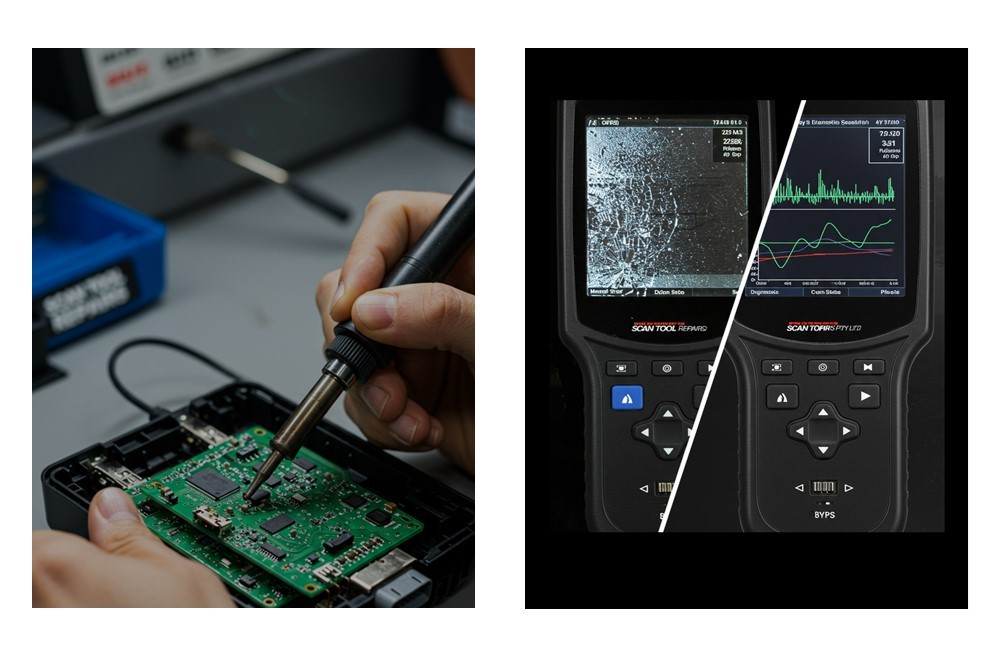
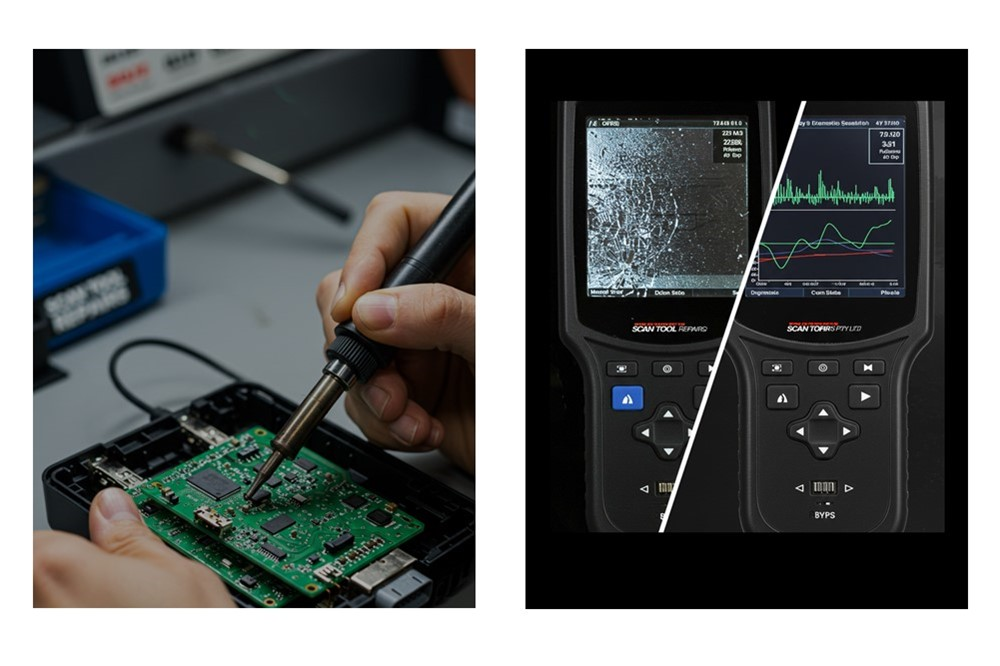
add img

diff --git a/index.html b/index.html
@@ -926,7 +926,7 @@ Founded with the goal of reducing repair costs for workshops and technicians, we
 		<div class="relative">&#13;
 							<div class="w-70px mb20 top-30px start-30px bg-color-3 rounded-10px absolute">					&#13;
 					<svg xmlns="http://www.w3.org/2000/svg" width="800px" height="800px" viewbox="0 0 1024 1024" fill="#0a2540" class="icon"><path d="M383.2 941.6c-4 0-6.4-0.8-9.6-2.4-14.4-9.6-82.4-60-25.6-160 15.2-27.2 19.2-48.8 13.6-66.4-6.4-20-27.2-28-27.2-28-9.6-4-14.4-15.2-10.4-24.8 3.2-8 9.6-12.8 17.6-12.8 2.4 0 4.8 0.8 7.2 1.6 3.2 0 36.8 14.4 50.4 50.4 10.4 28.8 4.8 62.4-16.8 100-40 70.4 2.4 101.6 11.2 107.2 8.8 4.8 12 16.8 7.2 26.4-4.8 6.4-12 8.8-17.6 8.8z m129.6-42.4c-4 0-6.4-0.8-9.6-2.4-28.8-16.8-69.6-68.8-24-150.4 13.6-24.8 17.6-44.8 12-60-5.6-17.6-24-24.8-24-24.8-10.4-4-15.2-14.4-11.2-24.8 3.2-8 9.6-12.8 17.6-12.8 2.4 0 4.8 0.8 7.2 1.6 8 3.2 36 16 47.2 48 9.6 27.2 4.8 58.4-15.2 92.8-38.4 68.8 8 96.8 10.4 97.6 4 2.4 7.2 6.4 8.8 11.2 1.6 4.8 0.8 10.4-1.6 15.2-4.8 6.4-12 8.8-17.6 8.8z m-265.6 0c-4 0-6.4-0.8-9.6-2.4-28.8-16.8-69.6-68.8-24-150.4 13.6-24.8 17.6-44.8 12-60-5.6-17.6-24-24.8-24-24.8-10.4-4-15.2-14.4-11.2-24.8 3.2-8 9.6-12.8 17.6-12.8 2.4 0 4.8 0.8 7.2 1.6 8 3.2 36 16.8 47.2 48 9.6 27.2 4 58.4-15.2 93.6-38.4 68.8 8 96.8 10.4 97.6 4 2.4 7.2 6.4 8.8 11.2 1.6 4.8 0.8 10.4-1.6 15.2-4 5.6-12 8-17.6 8z m487.2-71.2c-6.4 0-11.2-2.4-15.2-6.4s-6.4-9.6-6.4-15.2c0-8.8 5.6-16.8 13.6-20.8h0.8v-43.2l-40.8 23.2v0.8c0 6.4-2.4 14.4-10.4 18.4-3.2 2.4-7.2 3.2-11.2 3.2-8 0-15.2-4-18.4-10.4-3.2-5.6-4-11.2-2.4-16.8 1.6-5.6 4.8-10.4 10.4-12.8 3.2-2.4 7.2-3.2 10.4-3.2 4 0 8 0.8 11.2 3.2l36.8-20.8-36-20.8c-4.8 1.6-8.8 2.4-12 2.4-4 0-7.2-0.8-10.4-2.4-9.6-6.4-13.6-20-8-29.6 4-6.4 11.2-10.4 19.2-10.4 4 0 8 0.8 11.2 3.2 6.4 4 10.4 10.4 10.4 18.4v0.8L728 712v-43.2h-0.8c-8-4-13.6-12-13.6-20.8 0-12 9.6-21.6 21.6-21.6 6.4 0 12 2.4 16 6.4s6.4 9.6 6.4 15.2c0 7.2-4 14.4-11.2 18.4H744v41.6l35.2-20v-0.8c0-6.4 2.4-14.4 10.4-18.4 3.2-2.4 7.2-3.2 11.2-3.2 8 0 15.2 4 18.4 10.4 3.2 5.6 4 11.2 2.4 16.8-1.6 5.6-4.8 10.4-10.4 12.8-3.2 2.4-7.2 3.2-10.4 3.2-4 0-8-0.8-11.2-3.2l-36.8 20.8 36 20.8c4.8-1.6 8.8-2.4 12-2.4 4 0 7.2 0.8 10.4 2.4 9.6 6.4 13.6 20 8 29.6-4 6.4-11.2 10.4-19.2 10.4-4 0-8-0.8-11.2-3.2-6.4-4-10.4-10.4-10.4-18.4v-0.8L744 745.6v41.6h0.8c7.2 3.2 11.2 10.4 11.2 18.4 0 12.8-9.6 22.4-21.6 22.4zM152 575.2c-60.8 0-109.6-48.8-109.6-109.6V204.8c0-60.8 48.8-109.6 109.6-109.6h721.6c60.8 0 109.6 48.8 109.6 109.6v260.8c0 60.8-48.8 109.6-109.6 109.6H152z m-11.2-432c-28.8 0-52 24-52 54.4v278.4c0 29.6 23.2 54.4 52 54.4h743.2c28.8 0 52-24 52-54.4V197.6c0-29.6-23.2-54.4-52-54.4H140.8z m21.6 312c-10.4 0-19.2-8.8-19.2-19.2 0-10.4 8.8-19.2 19.2-19.2h682.4c10.4 0 19.2 8.8 19.2 19.2 0 10.4-8.8 19.2-19.2 19.2H162.4z m0-80.8c-10.4 0-19.2-8.8-19.2-19.2S152 336 162.4 336h682.4c10.4 0 19.2 8.8 19.2 19.2 0 10.4-8.8 19.2-19.2 19.2H162.4z" fill=""></path></svg>				</div>&#13;
-										<img decoding="async" src="./images/coolair-wp-content-uploads-2024-05-services-1.webp" alt="service-image">&#13;
+										<img decoding="async" src="./images/services01.jpg" alt="service-image">&#13;
 					</div>&#13;
 		<div class="padding40 bg-color-3">&#13;
 			<h4>Scan Tool Repairs</h4>&#13;
@@ -952,7 +952,7 @@ Founded with the goal of reducing repair costs for workshops and technicians, we
 		<div class="relative">&#13;
 							<div class="w-70px mb20 top-30px start-30px bg-color-3 rounded-10px absolute">					&#13;
 					<svg xmlns="http://www.w3.org/2000/svg" width="800px" height="800px" viewbox="0 0 1024 1024" fill="#ffffff" class="icon"><path d="M161.6 923.2c-15.2 0-30.4-6.4-40.8-17.6-22.4-22.4-22.4-60 0-82.4 11.2-11.2 25.6-17.6 40.8-17.6 15.2 0 30.4 6.4 40.8 17.6 22.4 22.4 22.4 60 0 82.4-10.4 12-24.8 17.6-40.8 17.6z m0-68c-2.4 0-4.8 0.8-6.4 2.4-4 4-4 10.4 0 14.4 1.6 1.6 4 2.4 6.4 2.4 2.4 0 4.8-0.8 6.4-2.4 4-4 4-10.4 0-14.4-1.6-1.6-4-2.4-6.4-2.4z" fill=""></path><path d="M178.4 972c-24.8 0-47.2-9.6-64.8-27.2l-24-24c-35.2-36-35.2-94.4 0-130.4l1.6-1.6 423.2-362.4c-25.6-43.2-37.6-93.6-33.6-144 4-59.2 28.8-114.4 69.6-156 45.6-46.4 106.4-72 171.2-72 31.2 0 62.4 6.4 91.2 18.4 7.2 3.2 12.8 9.6 14.4 17.6 1.6 8-0.8 16-6.4 21.6L696.8 236.8l84 85.6L904 198.4c4.8-4.8 11.2-7.2 17.6-7.2 1.6 0 3.2 0 4.8 0.8 8 1.6 14.4 7.2 17.6 14.4 18.4 44 23.2 92.8 14.4 140-8.8 48.8-32 92.8-66.4 128-45.6 46.4-105.6 72-169.6 72-35.2 0-70.4-8-101.6-23.2l-377.6 421.6c-17.6 17.6-40.8 27.2-64.8 27.2z m-54.4-147.2c-16 17.6-16 44.8 0.8 61.6l24 24c8 8 18.4 12.8 29.6 12.8 11.2 0 21.6-4.8 29.6-12.8l388.8-434.4c4.8-4.8 11.2-8 18.4-8 4 0 8.8 0.8 12 3.2 28.8 16.8 61.6 25.6 95.2 25.6 51.2 0 98.4-20 134.4-56.8 45.6-47.2 65.6-113.6 52.8-178.4l-112 112.8c-4.8 4.8-11.2 7.2-17.6 7.2-6.4 0-12.8-2.4-17.6-7.2L645.6 253.6c-9.6-9.6-9.6-24.8 0-34.4l112-112.8c-12-2.4-24-3.2-36-3.2-51.2 0-100 20.8-136 57.6-68 68.8-75.2 176.8-18.4 256 7.2 10.4 5.6 24.8-4 32.8l-439.2 375.2z" fill=""></path><path d="M405.6 522.4c-6.4 0-12.8-2.4-17.6-7.2L216 340h-58.4c-8.8 0-16.8-4.8-20.8-12L57.6 198.4c-5.6-9.6-4-22.4 4-30.4l64-64.8c4.8-4.8 11.2-7.2 17.6-7.2 4.8 0 8.8 1.6 12.8 4l130.4 81.6c7.2 4.8 11.2 12 11.2 20l0.8 58.4 176.8 181.6c4.8 4.8 7.2 11.2 7.2 17.6 0 6.4-2.4 12.8-7.2 16.8-4.8 4.8-10.4 7.2-16.8 7.2s-12.8-2.4-17.6-7.2L256 287.2c-4-4.8-7.2-10.4-7.2-16.8l-0.8-55.2-102.4-64-36.8 37.6 62.4 102.4h54.4c6.4 0 12.8 2.4 17.6 7.2l179.2 182.4c4.8 4.8 7.2 11.2 7.2 17.6 0 6.4-2.4 12.8-7.2 17.6-4 4-10.4 6.4-16.8 6.4zM768.8 979.2c-15.2 0-30.4-6.4-40.8-17.6L520.8 748c-22.4-22.4-22.4-59.2 0-82.4l6.4-6.4-7.2-7.2c-9.6-9.6-9.6-24.8 0.8-34.4 4.8-4.8 10.4-7.2 16.8-7.2s12.8 2.4 17.6 7.2l24 24c9.6 9.6 8.8 24.8 0 34.4l-23.2 24c-4 4-4 10.4 0 14.4L763.2 928c1.6 1.6 4 2.4 6.4 2.4 2.4 0 4.8-0.8 6.4-2.4l94.4-96.8c4-4 4-10.4 0-14.4l-208-213.6c-1.6-1.6-4-2.4-6.4-2.4-2.4 0-4.8 0.8-6.4 2.4L624 629.6c-4.8 4.8-11.2 7.2-17.6 7.2-6.4 0-12.8-2.4-17.6-7.2L568 606.4c-4.8-4.8-7.2-11.2-7.2-17.6 0-6.4 2.4-12.8 7.2-16.8 4.8-4.8 10.4-7.2 16.8-7.2s12.8 2.4 17.6 7.2l4.8 4.8 8-8c11.2-11.2 25.6-17.6 40.8-17.6 15.2 0 30.4 6.4 40.8 17.6L904 782.4c22.4 22.4 22.4 60 0 82.4l-94.4 96.8c-10.4 11.2-24.8 17.6-40.8 17.6z" fill=""></path></svg>				</div>&#13;
-										<img decoding="async" src="./images/coolair-wp-content-uploads-2024-05-services-2.webp" alt="service-image">&#13;
+										<img decoding="async" src="./images/services02.jpg" alt="service-image">&#13;
 					</div>&#13;
 		<div class="padding40 bg-color-3">&#13;
 			<h4>ECU Repairs & Programming</h4>&#13;
@@ -976,7 +976,7 @@ Founded with the goal of reducing repair costs for workshops and technicians, we
 		<div class="relative">&#13;
 							<div class="w-70px mb20 top-30px start-30px bg-color-3 rounded-10px absolute">					&#13;
 					<svg xmlns="http://www.w3.org/2000/svg" width="800px" height="800px" viewbox="0 0 1024 1024" fill="#ffffff" class="icon"><path d="M824.8 1003.2H203.2c-12.8 0-25.6-2.4-37.6-7.2-11.2-4.8-21.6-12-30.4-20.8-8.8-8.8-16-19.2-20.8-30.4-4.8-12-7.2-24-7.2-37.6V260c0-12.8 2.4-25.6 7.2-37.6 4.8-11.2 12-21.6 20.8-30.4 8.8-8.8 19.2-16 30.4-20.8 12-4.8 24-7.2 37.6-7.2h94.4v48H203.2c-26.4 0-48 21.6-48 48v647.2c0 26.4 21.6 48 48 48h621.6c26.4 0 48-21.6 48-48V260c0-26.4-21.6-48-48-48H730.4v-48H824c12.8 0 25.6 2.4 37.6 7.2 11.2 4.8 21.6 12 30.4 20.8 8.8 8.8 16 19.2 20.8 30.4 4.8 12 7.2 24 7.2 37.6v647.2c0 12.8-2.4 25.6-7.2 37.6-4.8 11.2-12 21.6-20.8 30.4-8.8 8.8-19.2 16-30.4 20.8-11.2 4.8-24 7.2-36.8 7.2z" fill=""></path><path d="M752.8 308H274.4V152.8c0-32.8 26.4-60 60-60h61.6c22.4-44 67.2-72.8 117.6-72.8 50.4 0 95.2 28.8 117.6 72.8h61.6c32.8 0 60 26.4 60 60v155.2m-430.4-48h382.4V152.8c0-6.4-5.6-12-12-12H598.4l-5.6-16c-12-33.6-43.2-56-79.2-56s-67.2 22.4-79.2 56l-5.6 16H334.4c-6.4 0-12 5.6-12 12v107.2zM432.8 792c-6.4 0-12-2.4-16.8-7.2L252.8 621.6c-4.8-4.8-7.2-10.4-7.2-16.8s2.4-12 7.2-16.8c4.8-4.8 10.4-7.2 16.8-7.2s12 2.4 16.8 7.2L418.4 720c4 4 8.8 5.6 13.6 5.6s10.4-1.6 13.6-5.6l295.2-295.2c4.8-4.8 10.4-7.2 16.8-7.2s12 2.4 16.8 7.2c9.6 9.6 9.6 24 0 33.6L449.6 784.8c-4.8 4-11.2 7.2-16.8 7.2z" fill=""></path></svg>				</div>&#13;
-										<img decoding="async" src="./images/coolair-wp-content-uploads-2024-05-services-3.webp" alt="service-image">&#13;
+										<img decoding="async" src="./images/services03.jpg" alt="service-image">&#13;
 					</div>&#13;
 		<div class="padding40 bg-color-3">&#13;
 			<h4>Nationwide Courier Service</h4>&#13;
